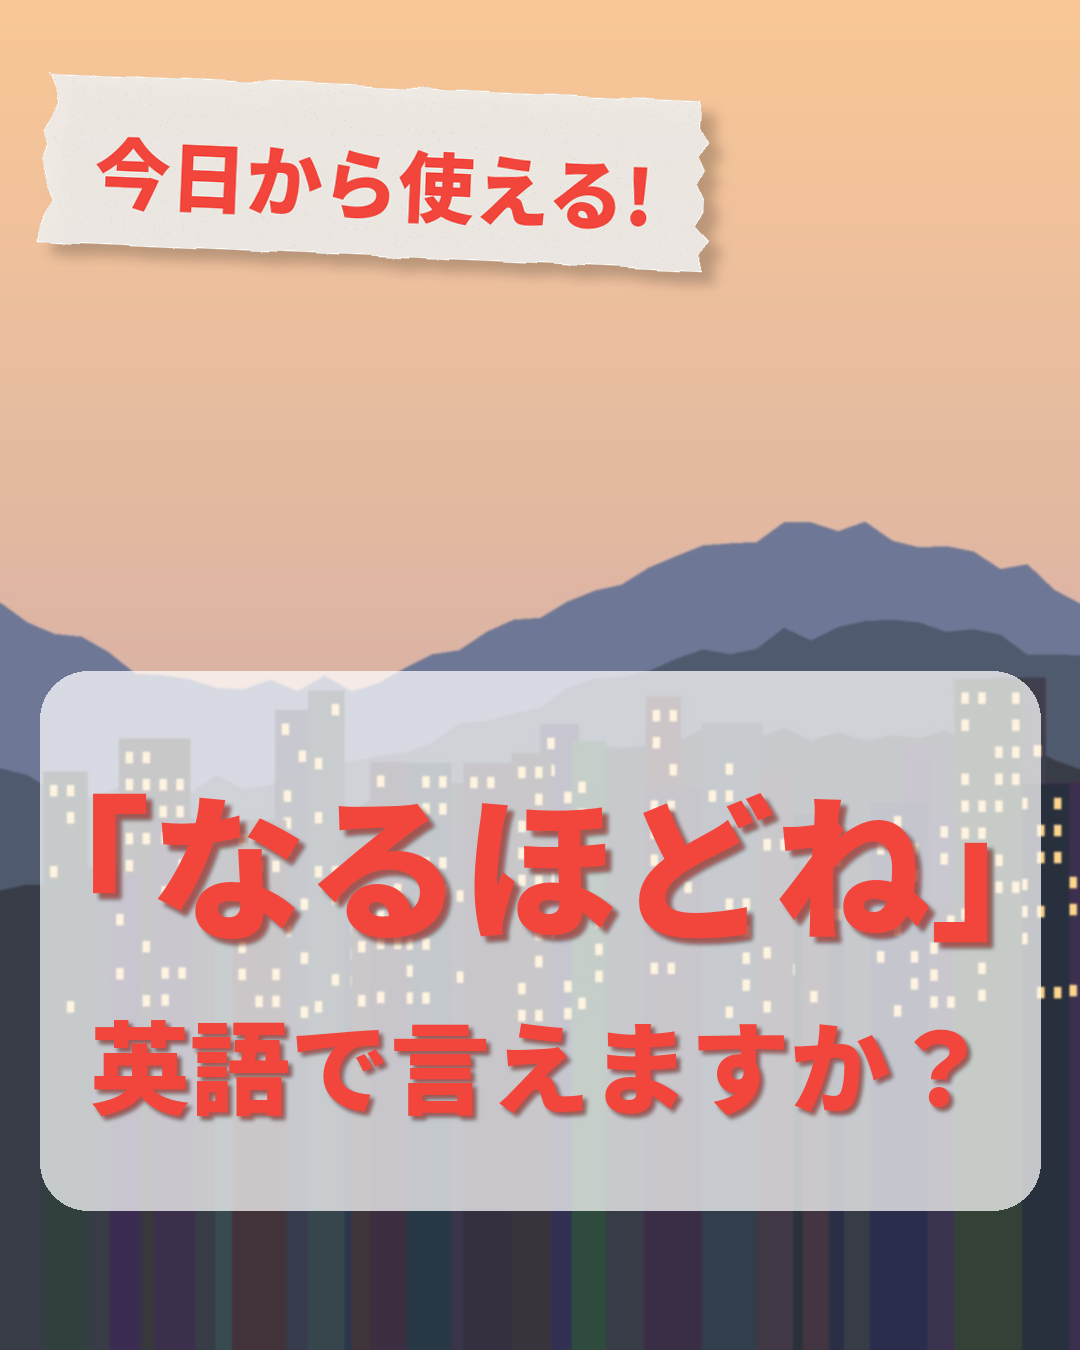
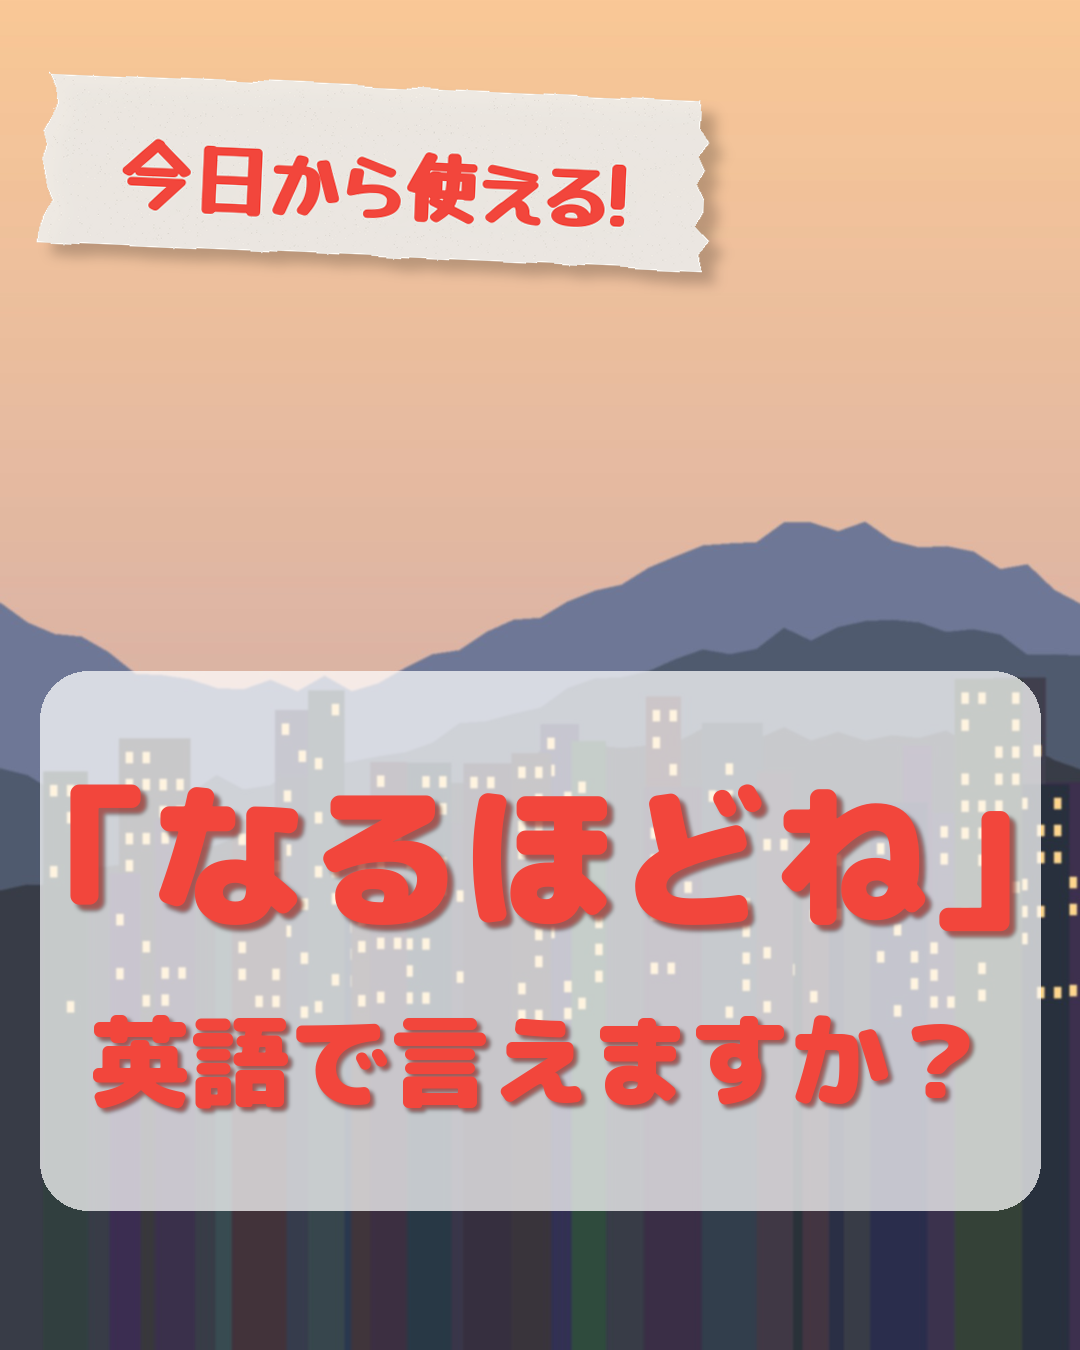
Bolder tape label; re-render sample with real fonts
Claude-Session: https://claude.ai/code/session_01Anu4SW45VRuupXWXVqUy6G

Changed region(s): [[0.0611, 0.56, 0.9472, 0.7156], [0.0917, 0.7467, 0.9167, 0.84], [0.0917, 0.0933, 0.6111, 0.1867]]

diff --git a/scripts/render.py b/scripts/render.py
@@ -105,7 +105,7 @@ def tape(img, text):
         d.point((x, y), fill=tuple(max(0, min(255, c + v)) for c in col) + (238,))
     f = font("hand", 76)
     tx = (tw + 40 - f.getlength(text)) / 2
-    d.text((tx, (th + 40 - 76) / 2 - 8), text, font=f, fill=C["red"])
+    d.text((tx, (th + 40 - 76) / 2 - 8), text, font=f, fill=C["red"], stroke_width=2, stroke_fill=C["red"])
     layer = layer.rotate(-2.5, resample=Image.BICUBIC, expand=True)
     sh = Image.new("RGBA", layer.size, (0, 0, 0, 0))
     sh.paste((0, 0, 0, 60), mask=layer.split()[3])
